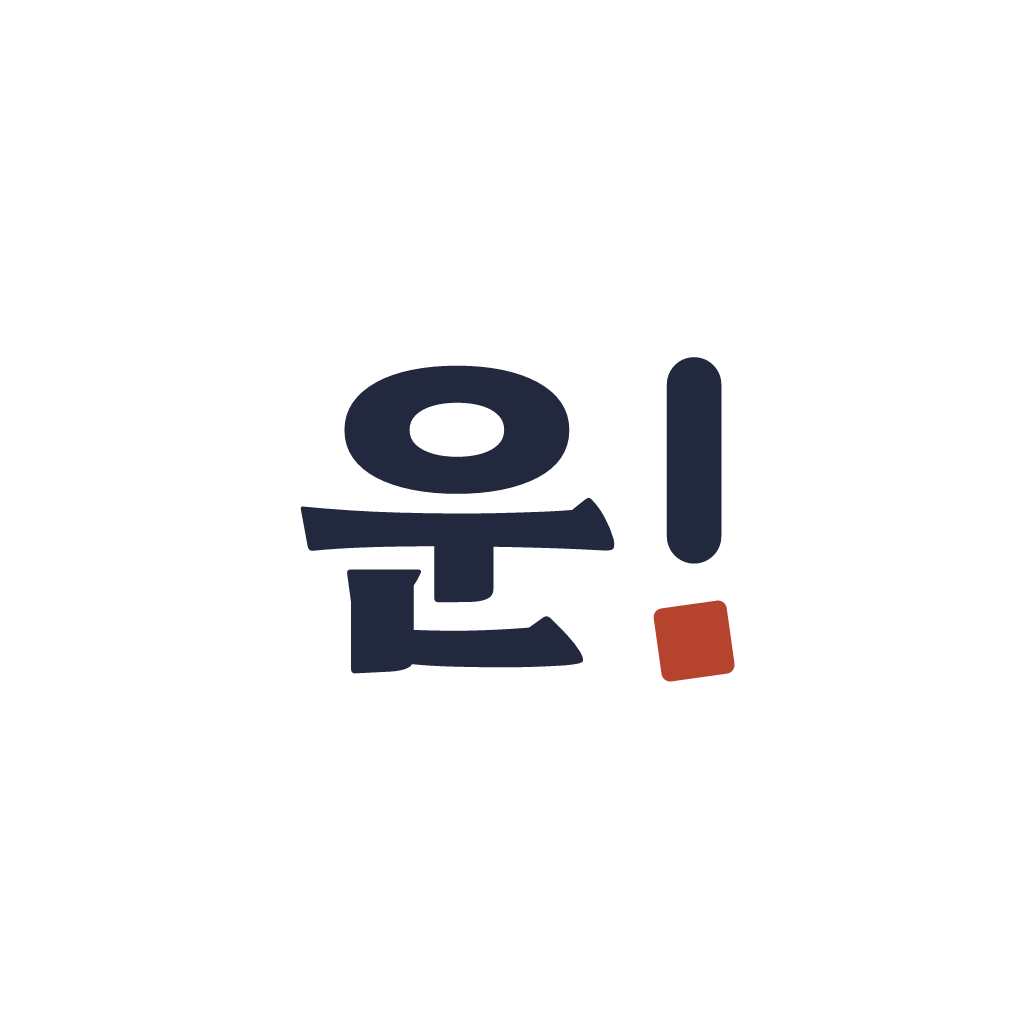
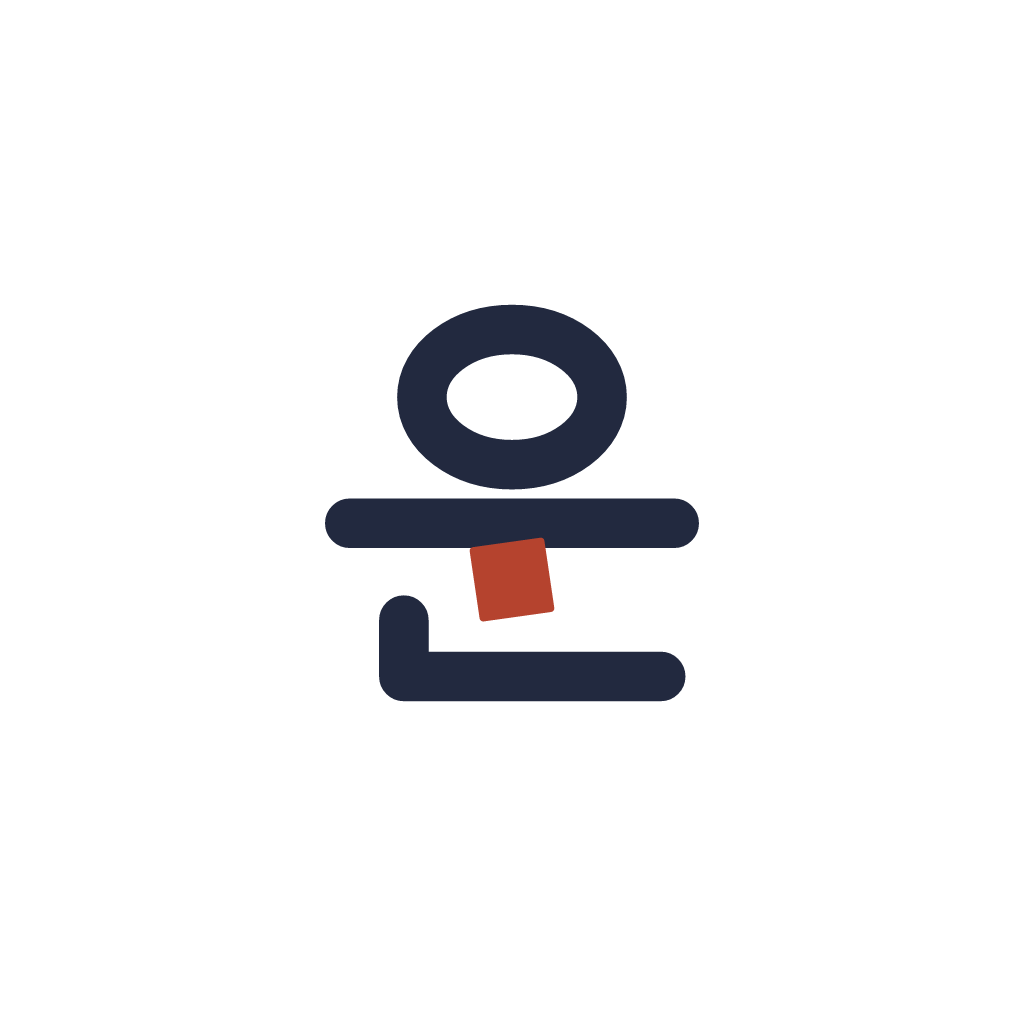
로고를 직접 그린 레터링으로 교체 · 첫 화면 로고 하나로
- 글꼴 대신 단선 레터링(획 11 · 둥근 끝)으로 '운Pick' 워드마크와 '운' 마크를 새로 그림
- 시그니처: '운'의 ㅜ 기둥 자리의 붉은 낙관 사각형(꼭짓점 좌표로 그려 웹·앱·공유 이미지에서 동일)
- 로그인: 마크+글자 두 개 → 워드마크 하나만, 앱 아이콘·스플래시·파비콘 재생성
- docs/BRAND.md 로고 규칙(한 화면에 로고 하나), docs/wordmark.png

Changed region(s): [[0.2812, 0.2812, 0.7188, 0.6875]]

diff --git a/scripts/render-icons.js b/scripts/render-icons.js
@@ -1,31 +1,36 @@
 /**
  * 운Pick 앱 아이콘 · 적응형 아이콘 · 스플래시 · 파비콘 생성 (assets/)
- * 사용: npm run icons   (src/components/BrandMark.tsx 의 LogoMark 와 같은 도형)
- * 마크: 명조 '운' + 느낌표(막대 + 점 자리의 붉은 낙관). "오늘의 운, 하나만 Pick!"
+ * 사용: npm run icons
+ * 로고는 글꼴이 아니라 직접 그린 단선 레터링(획 두께 11, 둥근 끝). src/components/BrandMark.tsx 와 같은 패스.
+ * 시그니처: '운'의 ㅜ 기둥 자리에 놓인 붉은 낙관 사각형 — 오늘 뽑은(Pick) 그 한 점.
  */
 const { Resvg } = require('@resvg/resvg-js');
 const fs = require('fs');
 const path = require('path');
 const NM = path.resolve(__dirname, '../node_modules/@expo-google-fonts/hahmlet');
-const FONTS = [NM + '/800ExtraBold/Hahmlet_800ExtraBold.ttf', NM + '/700Bold/Hahmlet_700Bold.ttf'];
+const FONTS = [NM + '/700Bold/Hahmlet_700Bold.ttf'];
 const NAVY = '#22293F', CREAM = '#F4EDDF', RED = '#B5432E', MUTE = '#857C6E';
-
-/** 운! 마크 — 100x100 좌표. fg: 글자 색 */
-const mark = (fg = NAVY) => `
-  <text x="40" y="67" font-family="Hahmlet" font-weight="800" font-size="47" fill="${fg}" text-anchor="middle" letter-spacing="-1">운</text>
-  <rect x="68.5" y="29" width="7.4" height="28" rx="3.7" fill="${fg}"/>
-  <g transform="rotate(-8 72.2 67.5)"><rect x="67.2" y="62.5" width="10" height="10" rx="1.2" fill="${RED}"/></g>`;
+const st = c => `fill="none" stroke="${c}" stroke-width="11" stroke-linecap="round" stroke-linejoin="round"`;
+/** 운 (0..100) */
+const un = (c = NAVY) => `
+  <ellipse cx="50" cy="24.5" rx="20" ry="15" ${st(c)}/>
+  <path d="M14 52.5 H86" ${st(c)}/>
+  <path d="M41.4 58.6 L56.4 56.5 L58.6 71.4 L43.6 73.5 Z" fill="${RED}" stroke="${RED}" stroke-width="1.6" stroke-linejoin="round"/>
+  <path d="M26 74 V86.5 H83" ${st(c)}/>`;
+/** Pick (운 뒤 x=110부터) */
+const pick = (c = NAVY) => `
+  <path d="M0 86.5 V13 H15 A18.5 18.5 0 0 1 15 50 H0" ${st(c)}/>
+  <path d="M55 44 V86.5" ${st(c)}/><circle cx="55" cy="22" r="7" fill="${c}"/>
+  <path d="M110 52 A18.5 18.5 0 1 0 110 80" ${st(c)}/>
+  <path d="M128 13 V86.5 M128 67 L151 44 M135 61 L153 86.5" ${st(c)}/>`;
+const word = c => `<g>${un(c)}</g><g transform="translate(110 0)">${pick(c)}</g>`; // 폭 0..269
 const svg = (body, vb = '0 0 100 100') => `<svg xmlns="http://www.w3.org/2000/svg" viewBox="${vb}">${body}</svg>`;
-function png(s, out, w) {
-  const r = new Resvg(s, { fitTo: { mode: 'width', value: w }, font: { fontFiles: FONTS, loadSystemFonts: false, defaultFontFamily: 'Hahmlet' } });
-  fs.writeFileSync(out, r.render().asPng());
-}
+const png = (s, out, w) => fs.writeFileSync(out, new Resvg(s, { fitTo: { mode: 'width', value: w }, font: { fontFiles: FONTS, loadSystemFonts: false, defaultFontFamily: 'Hahmlet' } }).render().asPng());
 const out = process.argv[2] || path.resolve(__dirname, '../assets');
-png(svg(`<rect width="100" height="100" fill="${CREAM}"/><g transform="translate(50 50) scale(1.02) translate(-47.5 -50)">${mark()}</g>`), `${out}/icon.png`, 1024);
-png(svg(`<g transform="translate(50 50) scale(0.72) translate(-47.5 -50)">${mark()}</g>`), `${out}/adaptive-icon.png`, 1024);
-png(svg(`<g transform="translate(200 150) scale(1.5) translate(-47.5 -50)">${mark()}</g>
-  <text x="200" y="282" font-family="Hahmlet" font-weight="800" font-size="46" fill="${NAVY}" text-anchor="middle" letter-spacing="-0.5">운Pick</text>
-  <text x="200" y="314" font-family="Hahmlet" font-weight="700" font-size="15" fill="${MUTE}" text-anchor="middle">오늘의 운, 하나만 Pick!</text>`, '0 0 400 400'), `${out}/splash-icon.png`, 1200);
-png(svg(`<rect width="100" height="100" rx="18" fill="${CREAM}"/><g transform="translate(50 50) scale(1.05) translate(-47.5 -50)">${mark()}</g>`), `${out}/favicon.png`, 196);
-module.exports = { mark };
+png(svg(`<rect width="100" height="100" fill="${CREAM}"/><g transform="translate(50 50) scale(0.6) translate(-50 -50)">${un()}</g>`), `${out}/icon.png`, 1024);
+png(svg(`<g transform="translate(50 50) scale(0.44) translate(-50 -50)">${un()}</g>`), `${out}/adaptive-icon.png`, 1024);
+png(svg(`<g transform="translate(200 175) scale(0.62) translate(-134.5 -50)">${word(NAVY)}</g>
+  <text x="200" y="250" font-family="Hahmlet" font-weight="700" font-size="16" fill="${MUTE}" text-anchor="middle">오늘의 운, 하나만 Pick!</text>`, '0 0 400 400'), `${out}/splash-icon.png`, 1200);
+png(svg(`<rect width="100" height="100" rx="18" fill="${CREAM}"/><g transform="translate(50 50) scale(0.68) translate(-50 -50)">${un()}</g>`), `${out}/favicon.png`, 196);
+png(svg(`<rect x="-14" y="-14" width="297" height="128" fill="${CREAM}"/>${word(NAVY)}`, '-14 -14 297 128'), path.resolve(__dirname, '../docs/wordmark.png'), 1200);
 console.log('ok');

diff --git a/src/components/BrandMark.tsx b/src/components/BrandMark.tsx
@@ -1,42 +1,50 @@
 import React from 'react';
-import { StyleSheet, Text, View } from 'react-native';
-import Svg, { G, Rect, Text as SvgText } from 'react-native-svg';
+import Svg, { Circle, Ellipse, G, Path } from 'react-native-svg';
 import { colors } from '../theme/colors';
-import { fonts } from '../theme/typography';
 
 /** 브랜드 — 화면 문구와 공유 문구가 모두 여기서 가져간다 (docs/BRAND.md) */
 export const BRAND = { name: '운Pick', ko: '운픽', slogan: '오늘의 운, 하나만 Pick!', store: '운Pick - 오늘의 운, 하나만 Pick' };
 
 /**
- * 로고 마크 — 명조 '운' + 느낌표. 느낌표의 점 자리는 붉은 낙관.
- * 오늘의 운을 하나 뽑았을 때의 "운!" 하는 감탄. 앱 아이콘(assets/icon.png)과 같은 도형.
- * fg: 글자 색(밝은 바탕엔 먹남색, 어두운 바탕엔 한지색)
+ * 운Pick 로고는 글꼴이 아니라 직접 그린 단선 레터링이다(획 두께 11 · 둥근 끝 · scripts/render-icons.js 와 같은 패스).
+ * 시그니처: '운'의 ㅜ 기둥 자리에 놓인 붉은 낙관 사각형 — 오늘 뽑은(Pick) 그 한 점.
  */
-export function LogoMark({ size = 24, fg = colors.navy }: { size?: number; fg?: string }) {
+const STROKE = { fill: 'none', strokeWidth: 11, strokeLinecap: 'round', strokeLinejoin: 'round' } as const;
+
+function Un({ fg }: { fg: string }) {
   return (
-    <Svg width={size * 1.2} height={size} viewBox="14 24 68 56" accessibilityLabel={BRAND.name}>
-      <SvgText x={40} y={67} fontFamily={fonts.serif} fontWeight="800" fontSize={47} fill={fg} textAnchor="middle" letterSpacing={-1}>운</SvgText>
-      <Rect x={68.5} y={29} width={7.4} height={28} rx={3.7} fill={fg} />
-      <G rotation={-8} origin="72.2, 67.5">
-        <Rect x={67.2} y={62.5} width={10} height={10} rx={1.2} fill={colors.seal} />
-      </G>
+    <>
+      <Ellipse cx={50} cy={24.5} rx={20} ry={15} stroke={fg} {...STROKE} />
+      <Path d="M14 52.5 H86" stroke={fg} {...STROKE} />
+      {/* 낙관: 16×16 사각형을 (50,65) 기준 -8° 돌린 꼭짓점 — 회전 속성 없이 그려 어디서나 같은 위치 */}
+      <Path d="M41.4 58.6 L56.4 56.5 L58.6 71.4 L43.6 73.5 Z" fill={colors.seal} stroke={colors.seal} strokeWidth={1.6} strokeLinejoin="round" />
+      <Path d="M26 74 V86.5 H83" stroke={fg} {...STROKE} />
+    </>
+  );
+}
+
+/** 마크: '운' 레터링 (앱 아이콘과 같음). fg: 획 색 — 밝은 바탕엔 먹남색, 어두운 바탕엔 한지색 */
+export function LogoMark({ size = 24, fg = colors.purple }: { size?: number; fg?: string }) {
+  return (
+    <Svg width={size} height={size} viewBox="2 2 96 96" accessibilityLabel={BRAND.name}>
+      <Un fg={fg} />
     </Svg>
   );
 }
 
-/** 워드마크: 운Pick + 낙관 점 */
-export default function BrandMark({ light = false, size = 20 }: { light?: boolean; size?: number }) {
+/** 워드마크: 운Pick 레터링 하나 (첫 화면 · 헤더 · 공유 카드). size = 높이 */
+export default function BrandMark({ light = false, size = 22 }: { light?: boolean; size?: number }) {
   const fg = light ? '#F4EDDF' : colors.purple;
   return (
-    <View style={s.row} accessibilityLabel={BRAND.name}>
-      <Text style={[s.word, { fontSize: size, lineHeight: size * 1.25, color: fg }]}>{BRAND.name}</Text>
-      <View style={[s.dot, { width: size * 0.26, height: size * 0.26, marginBottom: size * 0.2 }]} />
-    </View>
+    <Svg width={(size * 281) / 92} height={size} viewBox="-6 2 281 92" accessibilityLabel={BRAND.name}>
+      <Un fg={fg} />
+      <G x={110}>
+        <Path d="M0 86.5 V13 H15 A18.5 18.5 0 0 1 15 50 H0" stroke={fg} {...STROKE} />
+        <Path d="M55 44 V86.5" stroke={fg} {...STROKE} />
+        <Circle cx={55} cy={22} r={7} fill={fg} />
+        <Path d="M110 52 A18.5 18.5 0 1 0 110 80" stroke={fg} {...STROKE} />
+        <Path d="M128 13 V86.5 M128 67 L151 44 M135 61 L153 86.5" stroke={fg} {...STROKE} />
+      </G>
+    </Svg>
   );
 }
-
-const s = StyleSheet.create({
-  row: { flexDirection: 'row', alignItems: 'flex-end', gap: 2 },
-  word: { fontFamily: fonts.serif, fontWeight: '800', letterSpacing: -0.4 },
-  dot: { borderRadius: 1, backgroundColor: colors.seal, transform: [{ rotate: '-8deg' }] },
-});

diff --git a/src/screens/auth/LoginScreen.tsx b/src/screens/auth/LoginScreen.tsx
@@ -2,7 +2,7 @@ import React, { useEffect, useState } from 'react';
 import { StyleSheet, Text, View } from 'react-native';
 import { SafeAreaView } from 'react-native-safe-area-context';
 import { useNavigation } from '@react-navigation/native';
-import { LogoMark } from '../../components/BrandMark';
+import BrandMark from '../../components/BrandMark';
 import PressableScale from '../../components/PressableScale';
 import BottomSheet from '../../components/BottomSheet';
 import Icon from '../../components/Icon';
@@ -49,8 +49,7 @@ export default function LoginScreen() {
             <Text style={[txt.caption, { marginTop: 6 }]}>30초 가입하고 내 결과와 바로 비교해 보세요</Text>
           </View>
         ) : null}
-        <LogoMark size={76} />
-        <Text style={s.logoText}>운Pick</Text>
+        <BrandMark size={58} />
         <Text style={s.headline}>{COPY.ask}</Text>
         <Text style={[txt.small, { marginTop: 6 }]}>{COPY.pickMe}</Text>
       </View>
@@ -82,7 +81,7 @@ export default function LoginScreen() {
 const s = StyleSheet.create({
   root: { flex: 1, backgroundColor: colors.cream },
   hero: { flex: 1, justifyContent: 'center', paddingHorizontal: 32 },
-  headline: { fontFamily: fonts.serif, fontSize: 20, lineHeight: 28, fontWeight: '600', color: colors.inkSub, letterSpacing: -0.4, marginTop: 6 },
+  headline: { fontFamily: fonts.serif, fontSize: 20, lineHeight: 28, fontWeight: '600', color: colors.inkSub, letterSpacing: -0.4, marginTop: 22 },
   logo: { flexDirection: 'row', alignItems: 'center', gap: 8, marginTop: 18 },
   logoText: { fontFamily: fonts.serif, fontSize: 44, lineHeight: 56, fontWeight: '800', color: colors.purple, letterSpacing: -1, marginTop: 20 },
   logoDot: { width: 9, height: 9, borderRadius: 5, backgroundColor: colors.moon, marginTop: 22 },

diff --git a/docs/BRAND.md b/docs/BRAND.md
@@ -22,18 +22,18 @@
 
 'PICK'은 고르는 동작을 강조할 때 대문자로, 브랜드명은 `운Pick`으로 써요. 카피에도 이모지는 쓰지 않아요.
 
-## 로고 (`docs/logo-concepts.png`에 시안 5종 비교)
+## 로고 — 직접 그린 레터링 (`docs/wordmark.png`)
 | 요소 | 설명 |
 |---|---|
-| 마크 **운!** | 명조 '운' + 느낌표. 느낌표의 점 자리는 붉은 낙관(8° 기울임) — 운을 뽑았을 때의 "운!" 하는 감탄 |
-| 워드마크 | Hahmlet ExtraBold `운Pick` + 낙관 점 |
-| 보조 마크 | '운/픽' 세로 각인 낙관(시안 C) — 공유 카드·도장 자리 |
-| 앱 아이콘 | 한지색(#F4EDDF) 바탕 + 먹남색 '운' + 주홍 낙관 (`assets/icon.png`) |
-| 코드 | `src/components/BrandMark.tsx`의 `LogoMark`(fg로 글자 색) · `BrandMark`(워드마크). `npm run icons`로 아이콘 재생성 |
+| 워드마크 **운Pick** | 글꼴이 아니라 직접 그린 단선 레터링. 획 두께 11 · 둥근 끝 · '운'과 'Pick'의 높이·두께를 하나로 맞춤 |
+| 시그니처 | '운'의 ㅜ 기둥 자리에 놓인 **붉은 낙관 사각형**(-8°) — 오늘 뽑은(Pick) 그 한 점. 로고 안의 유일한 색 |
+| 앱 아이콘 | 워드마크의 '운'만 떼어 한지색 바탕 위에 (`assets/icon.png`) |
+| 사용 규칙 | **한 화면에 로고는 하나만.** 첫 화면·헤더·공유 카드는 워드마크, 앱 아이콘·로딩·작은 자리는 '운' 마크 |
+| 코드 | `src/components/BrandMark.tsx` — `BrandMark`(워드마크) · `LogoMark`('운'). `npm run icons`가 같은 패스로 아이콘을 만들어요 |
 
-선정 이유: 시안 5종 중 40px에서도 한눈에 읽히고(작은 크기 테스트 통과), 이름과 감정이 한 글자에 담겨요. 산통(연필꽂이로 보임)·피크(지도 핀으로 보임)·카드(작을 때 뭉개짐)는 탈락했어요.
-
-쓰지 않는 것: 초승달·별·반짝이(✦)·보라 그라데이션·네온·마스코트.
+- 낙관은 회전 속성 없이 꼭짓점 좌표로 그려서 앱·웹·공유 이미지 어디서나 같은 자리에 찍혀요.
+- 시안 비교(`docs/logo-concepts.png`)의 '운!'(글꼴형)은 글꼴로만 만들어 가볍게 보여서 레터링으로 대체했어요.
+- 쓰지 않는 것: 초승달·별·반짝이(✦)·보라 그라데이션·네온·마스코트, 기성 글꼴 그대로의 로고.
 
 ## 색
 | 이름 | 값 | 쓰임 |
